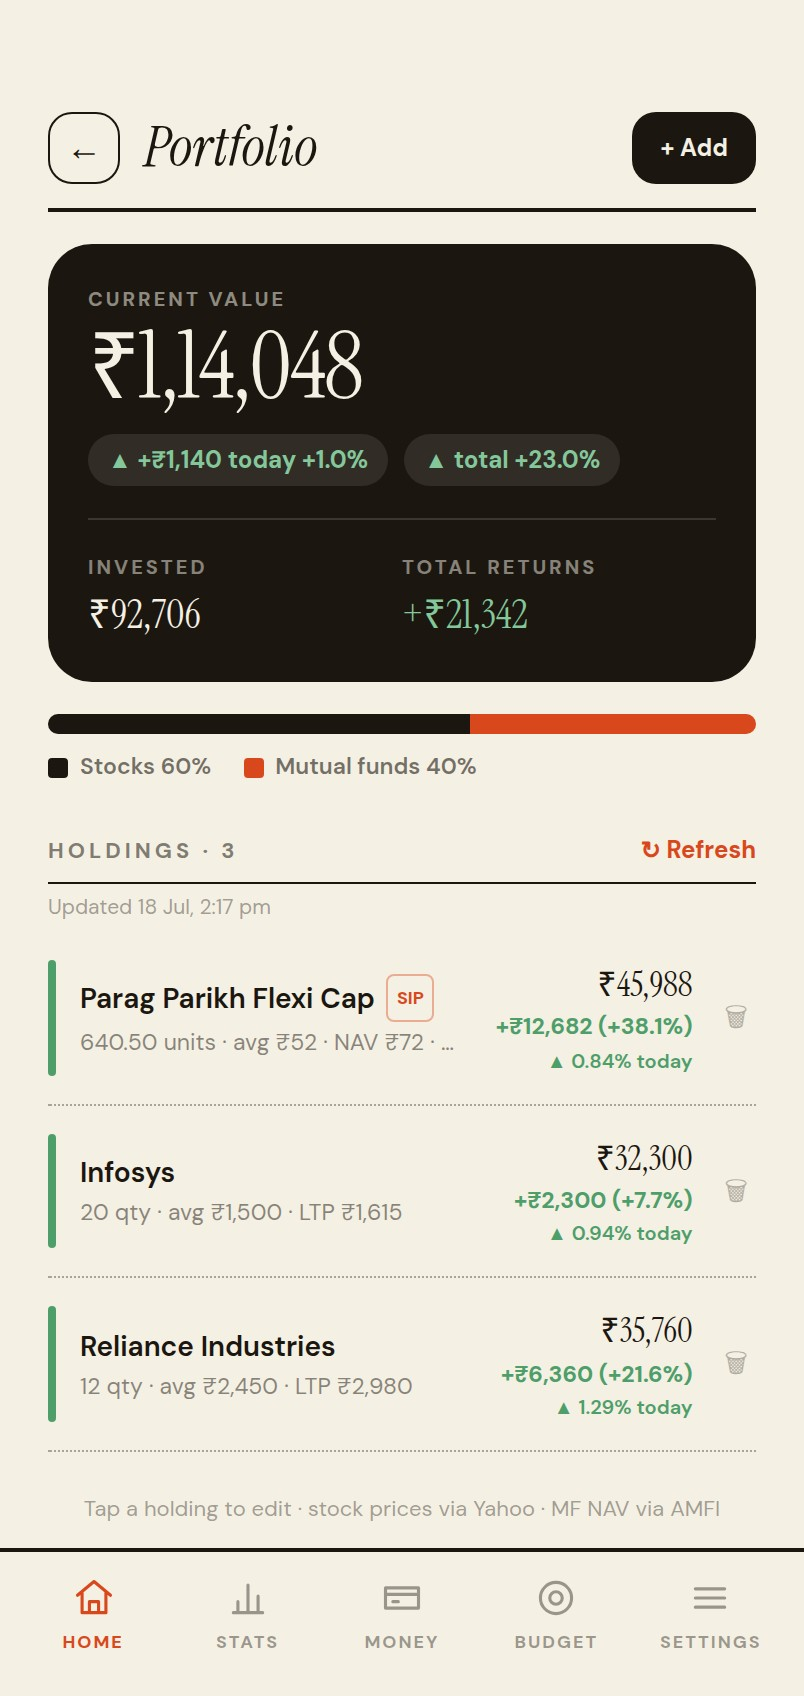
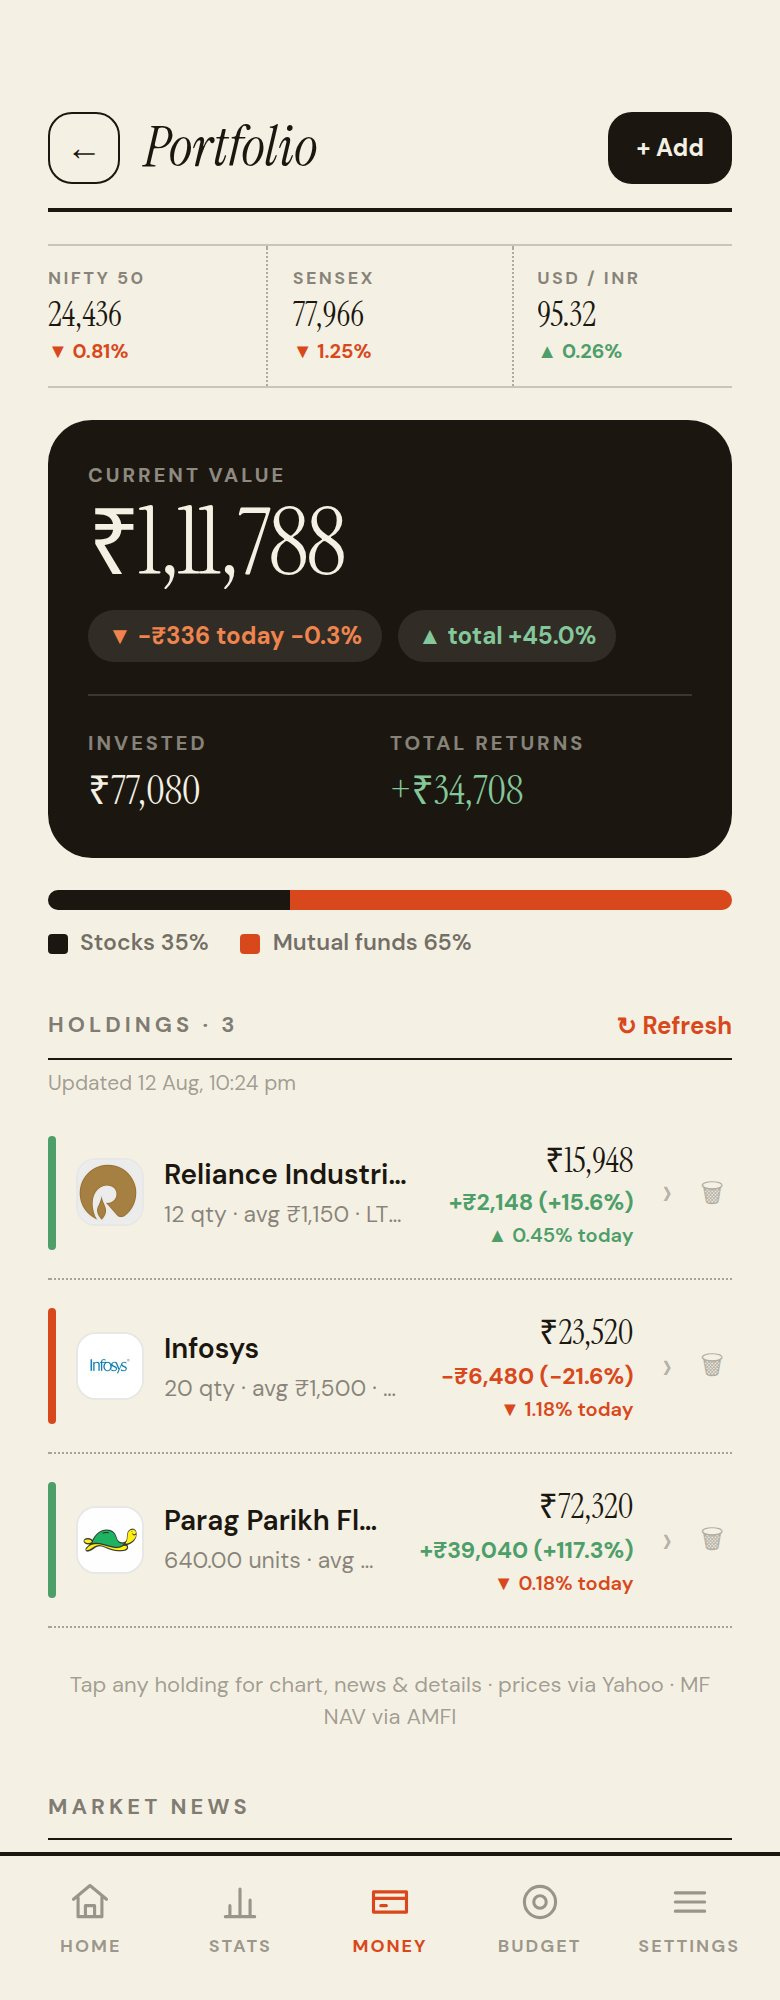
v1.3.1 — net-worth history reconstruction, 2-col detail, tour slide
- Net worth trend reconstructs history from holdings × past prices so the
  1M/6M/1Y/5Y/ALL range pills actually change the view (fixes 'nothing happens')
- Holding detail: paired two-column stat sections (price/fundamentals,
  financials/analyst) + ABOUT summary clamped behind View more
- Portfolio rows show a › chevron so the detail screen is discoverable
- Welcome tour: added a 'Deep-dive any holding' slide; refreshed the Portfolio
  screenshot (logos, market pulse, chevrons)
- Docs (CLAUDE.md, DESIGN-CONTEXT.md) updated

diff --git a/src/pages/NetWorth.jsx b/src/pages/NetWorth.jsx
@@ -4,8 +4,15 @@ import { useApp } from '../context/AppContext'
 import Modal, { ConfirmModal } from '../components/ui/Modal'
 import { formatCurrency } from '../utils/formatters'
 import { computeNetWorth, assetValue, ASSET_TYPES, typeMeta, METALS, assetMetal, isMetalAsset, finenessOf } from '../utils/networth'
+import { priceKey, fetchStockChart, fetchMfSeries } from '../services/marketData'
 
 const todayISO = () => new Date().toISOString().split('T')[0]
+
+// Latest value in an oldest-first [{t, close}] series at or before time `t`.
+function priceOnOrBefore(series, t) {
+  for (let i = series.length - 1; i >= 0; i--) if (series[i].t <= t) return series[i].close
+  return null
+}
 
 const INK = '#1B1710'
 const GREEN = '#4E9E6A'
@@ -28,6 +35,64 @@ export default function NetWorth({ onOpenPortfolio, onOpenUdhaar }) {
   const [del, setDel] = useState(null)
 
   const nw = useMemo(() => computeNetWorth({ holdings, prices, assets, udhaar, metalRates }), [holdings, prices, assets, udhaar, metalRates])
+
+  // Reconstruct a monthly net-worth history so the trend spans real time and the range
+  // pills actually change the view (like Groww). Investments are valued at PAST prices
+  // from the history we already fetch; non-investment worth (assets, udhaar) is held at
+  // its current value as a baseline. Only kicks in when real daily snapshots are too few
+  // to span a meaningful range; otherwise the true snapshots are used as-is.
+  const [histSeries, setHistSeries] = useState(null)
+  useEffect(() => {
+    let cancelled = false
+    const spanDays = netWorthSnaps.length >= 2
+      ? (new Date(netWorthSnaps[netWorthSnaps.length - 1].date) - new Date(netWorthSnaps[0].date)) / 86400000
+      : 0
+    if (!holdings.length || spanDays >= 60) { setHistSeries(null); return }
+    ;(async () => {
+      try {
+        let invNow = 0
+        holdings.forEach(h => { const p = prices[priceKey(h)]; if (p) invNow += Number(h.qty) * p.price })
+        const baseline = nw.total - invNow   // assets + udhaar, held constant historically
+        const hist = await Promise.all(holdings.map(async h => {
+          try {
+            const r = h.kind === 'mf' ? await fetchMfSeries(h.schemeCode) : await fetchStockChart(h.symbol, '5Y')
+            return { h, series: r.series || [] }
+          } catch { return { h, series: [] } }
+        }))
+        if (cancelled) return
+        const withHist = hist.filter(x => x.series.length)
+        if (!withHist.length) { setHistSeries(null); return }
+        const earliest = Math.min(...withHist.map(x => x.series[0].t))
+        const now = new Date()
+        const points = []
+        let d = new Date(now.getFullYear(), now.getMonth(), 1)
+        for (let i = 0; i < 60; i++) {
+          const monthEnd = new Date(d.getFullYear(), d.getMonth() + 1, 0)
+          const t = monthEnd.getTime()
+          if (t <= Date.now() && t >= earliest) {
+            let inv = 0
+            withHist.forEach(({ h, series }) => {
+              const price = priceOnOrBefore(series, t)
+              if (price != null) inv += Number(h.qty) * price
+            })
+            points.push({ date: monthEnd.toISOString().split('T')[0], total: Math.round(inv + baseline) })
+          }
+          if (t < earliest) break
+          d = new Date(d.getFullYear(), d.getMonth() - 1, 1)
+        }
+        // merge reconstructed months with real snapshots (snapshots win on shared dates)
+        const byDate = new Map()
+        points.forEach(p => byDate.set(p.date, p))
+        netWorthSnaps.forEach(s => byDate.set(s.date, { date: s.date, total: s.total }))
+        const merged = [...byDate.values()].sort((a, b) => a.date.localeCompare(b.date))
+        if (!cancelled) setHistSeries(merged.length >= 2 ? merged : null)
+      } catch { if (!cancelled) setHistSeries(null) }
+    })()
+    return () => { cancelled = true }
+  }, [holdings, prices, assets, udhaar, metalRates, netWorthSnaps, nw.total])
+
+  const trendData = histSeries && histSeries.length >= 2 ? histSeries : netWorthSnaps
+  const trendReconstructed = !!(histSeries && histSeries.length >= 2)
 
   const empty = assets.length === 0 && holdings.length === 0 && udhaar.filter(u => u.status === 'open').length === 0
 
@@ -54,8 +119,8 @@ export default function NetWorth({ onOpenPortfolio, onOpenUdhaar }) {
             </div>
           </div>
 
-          {netWorthSnaps.length >= 2 ? (
-            <TrendChart snaps={netWorthSnaps} />
+          {trendData.length >= 2 ? (
+            <TrendChart snaps={trendData} reconstructed={trendReconstructed} />
           ) : (
             <div className="px-5 mt-2 flex items-center gap-2">
               <span className="text-sm">📈</span>
@@ -150,8 +215,8 @@ const RANGES = [
 ]
 
 // Stock-app style trend: range pills (1M/6M/1Y/5Y/ALL) + area chart, dark themed.
-function TrendChart({ snaps }) {
-  const [range, setRange] = useState('ALL')
+function TrendChart({ snaps, reconstructed }) {
+  const [range, setRange] = useState('1Y')
 
   const { data, rangeChange, label } = useMemo(() => {
     const r = RANGES.find(x => x.id === range) || RANGES[4]
@@ -229,6 +294,12 @@ function TrendChart({ snaps }) {
           )
         })}
       </div>
+
+      {reconstructed && (
+        <p className="px-5 mt-2 text-[10px] leading-snug" style={{ color: 'rgba(245,240,228,.4)' }}>
+          History before daily tracking is estimated from your current holdings at past market prices.
+        </p>
+      )}
     </div>
   )
 }

diff --git a/src/components/portfolio/HoldingDetail.jsx b/src/components/portfolio/HoldingDetail.jsx
@@ -312,34 +312,33 @@ export default function HoldingDetail({ holding: h, onBack, onEdit, onDelete }) 
           </>
         )}
 
-        {/* price stats / fund info */}
-        <KVSection title={isMf ? 'FUND INFO' : 'PRICE STATS'} rows={marketStats} />
+        {/* MF: fund info stays as full-width rows */}
+        {isMf && <KVSection title="FUND INFO" rows={marketStats} />}
+        {isMf && err && !stats && <p className="text-[12px] text-ink/45 py-2">Couldn't load live data — showing what's saved on your device.</p>}
 
-        {/* stock: fundamentals, financials, analysts, about */}
+        {/* Stock: paired two-column stat sections */}
         {!isMf && (
           <>
+            <div className="grid grid-cols-2 gap-x-5 items-start">
+              <ColSection title="PRICE STATS" rows={marketStats} />
+              <ColSection title="FUNDAMENTALS" rows={fundamentals} />
+            </div>
+            <div className="grid grid-cols-2 gap-x-5 items-start">
+              <ColSection title="FINANCIALS" rows={financials} />
+              <ColSection title="ANALYST VIEW" rows={analysts} />
+            </div>
             {fundState === 'loading' && !fund && (
-              <p className="text-[12px] text-ink/45 pt-6">Loading fundamentals…</p>
+              <p className="text-[12px] text-ink/45 pt-5">Loading fundamentals…</p>
             )}
             {fundState === 'error' && !fund && (
-              <p className="text-[12px] text-ink/45 pt-6 leading-snug">
+              <p className="text-[12px] text-ink/45 pt-5 leading-snug">
                 Fundamentals (P/E, financials, ownership) load in the installed app — Yahoo blocks them in the browser.
               </p>
             )}
-            {fund && (
-              <>
-                <KVSection title="FUNDAMENTALS" rows={fundamentals} />
-                <KVSection title="FINANCIALS" rows={financials} />
-                <KVSection title="ANALYST VIEW" rows={analysts} />
-                <KVSection title="ABOUT" rows={about} />
-                {fund.summary && (
-                  <p className="text-[12.5px] text-ink/65 leading-relaxed pt-3">{fund.summary}</p>
-                )}
-              </>
-            )}
+            {about && <KVSection title="ABOUT" rows={about} />}
+            {fund?.summary && <AboutSummary text={fund.summary} />}
           </>
         )}
-        {isMf && err && !stats && <p className="text-[12px] text-ink/45 py-2">Couldn't load live data — showing what's saved on your device.</p>}
 
         {/* news for this holding */}
         <NewsList query={newsQuery(h)} title="NEWS" count={5} />
@@ -372,6 +371,39 @@ function KVSection({ title, rows }) {
         ))}
       </div>
     </>
+  )
+}
+
+// Narrow-column stat list (label stacked above value) — pairs two sections side by side.
+function ColSection({ title, rows }) {
+  const filled = (rows || []).filter(([, v]) => v != null && v !== '')
+  if (!filled.length) return null
+  return (
+    <div className="mt-7">
+      <div className="text-[10.5px] font-bold tracking-[1.5px] text-ink/55 rule-ink pb-2 mb-1">{title}</div>
+      {filled.map(([k, v]) => (
+        <div key={k} className="py-2 rule-dot">
+          <div className="text-[10px] tracking-[0.5px] text-ink/45">{k}</div>
+          <div className="text-[13px] font-semibold leading-snug break-words">{v}</div>
+        </div>
+      ))}
+    </div>
+  )
+}
+
+// Business summary, clamped to a few lines with a View more / less toggle.
+function AboutSummary({ text }) {
+  const [open, setOpen] = useState(false)
+  const long = text.length > 200
+  return (
+    <div className="pt-3">
+      <p className={`text-[12.5px] text-ink/65 leading-relaxed ${!open && long ? 'line-clamp-4' : ''}`}>{text}</p>
+      {long && (
+        <button onClick={() => setOpen(o => !o)} className="text-[12px] font-bold text-brand mt-1.5 active:opacity-60">
+          {open ? 'View less' : 'View more'}
+        </button>
+      )}
+    </div>
   )
 }
 

diff --git a/src/components/onboarding/WelcomeTour.jsx b/src/components/onboarding/WelcomeTour.jsx
@@ -1,6 +1,7 @@
 import { useState } from 'react'
 import homeImg from '../../assets/tour/home.jpg'
 import portfolioImg from '../../assets/tour/portfolio.jpg'
+import detailImg from '../../assets/tour/detail.jpg'
 import moneyImg from '../../assets/tour/money.jpg'
 import breakdownImg from '../../assets/tour/breakdown.jpg'
 import trendsImg from '../../assets/tour/trends.jpg'
@@ -11,6 +12,7 @@ import udhaarImg from '../../assets/tour/udhaar.jpg'
 const SLIDES = [
   { img: homeImg,      accent: '#D9481C', title: 'Everything at a glance',  body: "Your month's spend, budget, portfolio and dues — all on one home screen." },
   { img: portfolioImg, accent: '#4E9E6A', title: 'Track your investments',  body: 'Stocks, mutual funds and SIPs with live prices, returns and allocation.' },
+  { img: detailImg,    accent: '#B5761F', title: 'Deep-dive any holding',   body: 'Tap a stock or fund for its live chart, fundamentals, returns and latest news.' },
   { img: moneyImg,     accent: '#6C5FB0', title: 'Your whole net worth',    body: 'Metals, FDs, loans and investments in one number — with a trend that grows.' },
   { img: breakdownImg, accent: '#C9972E', title: 'Where your money goes',   body: 'A clear category breakdown for every month.' },
   { img: trendsImg,    accent: '#3E7CA6', title: 'Spot the trends',         body: 'Watch each category move, month over month.' },

diff --git a/src/pages/Portfolio.jsx b/src/pages/Portfolio.jsx
@@ -186,13 +186,14 @@ export default function Portfolio({ onBack }) {
                       </div>
                     )}
                   </div>
+                  <span aria-hidden className="self-center text-ink/30 text-xl leading-none pl-1 -mr-0.5">›</span>
                 </button>
                 <button onClick={() => setDel(h)} aria-label="Remove" className="text-[13px] opacity-30 active:opacity-70 self-center p-1">🗑</button>
               </div>
             )
           })}
           <p className="text-center text-[11px] text-ink/40 pt-5">
-            Tap a holding for full details · stock prices via Yahoo · MF NAV via AMFI
+            Tap any holding for chart, news &amp; details · prices via Yahoo · MF NAV via AMFI
           </p>
         </>
       )}

diff --git a/DESIGN-CONTEXT.md b/DESIGN-CONTEXT.md
@@ -57,7 +57,7 @@ Active-month header; monthly budget card (spent vs budget, colored progress, rem
 
 The hub that ties everything together.
 - **Ink hero:** big **net worth** number (rust if negative), You own / You owe split.
-- **Trend:** once ≥2 daily snapshots exist, a **stock-app-style area chart** with range pills **1M · 6M · 1Y · 5Y · ALL** and a range-specific ▲/▼ return. Before that, a compact "trend builds as days pass" note (no empty chart).
+- **Trend:** a **stock-app-style area chart** with range pills **1M · 6M · 1Y · 5Y · ALL** and a range-specific ▲/▼ return. When real daily snapshots span < 60 days, the history is **reconstructed** so the ranges actually differ — current holdings valued at past prices (from the price/NAV history we fetch), with assets/udhaar held as a constant baseline; recent days still use the true snapshots, and a caption notes the reconstruction. Before any data exists, a compact "trend builds as days pass" note (no empty chart).
 - **Breakdown rows:** Investments (live portfolio value → opens Portfolio), Udhaar (net, → ledger), plus manual **assets**.
 - **+ Add asset** modal — types: **Metal** (Gold/Silver/Platinum selector + weight + purity, live-valued), **Fixed deposit** (principal + rate + date → auto-compounds), **Loan/due** (outstanding + rate + EMI + date → auto-amortizes), **Other** (static value). Dynamic assets show a **LIVE** badge and a "value today" preview.
 
@@ -65,9 +65,10 @@ The hub that ties everything together.
 
 Ink hero (current value, today/total P&L chips, invested, total returns); Stocks-vs-MF allocation bar; holdings list with per-row P&L accent, SIP badge, LTP/NAV, live prices (refresh button + "updated" label). Add/Edit holding modals: stock/MF search, quantity + avg buy, optional **monthly SIP** (auto-adds units each month at that month's NAV); re-adding an owned holding **averages** in (weighted avg buy + summed qty).
 
-**Holding detail (tap any holding — full-screen, Groww/Kite style):** ink chart card with big price/NAV, today's ▲/▼, and an area chart with range pills **1M · 6M · 1Y · 5Y · MAX**; **Your holding** grid (units/qty, avg cost, invested, current value, total & today's returns). For **stocks**: PRICE STATS (prev close, day range, 52-week range, volume, exchange) + FUNDAMENTALS (market cap, P/E, forward P/E, EPS, book value, P/B, dividend yield, beta) + FINANCIALS (revenue, profit margin, ROE, debt/equity, current ratio, revenue growth) + ANALYST VIEW (rating + target) + ABOUT (sector, industry, employees, business summary). For **funds**: RETURNS (1M/6M/1Y/3Y/5Y + since-inception, annualized past ~1y, computed from NAV history) + FUND INFO (NAV date, category, fund house, type). Stock fundamentals come from Yahoo `quoteSummary` (needs a cookie+crumb handshake); fetched data is cached **once per calendar day per holding** so reopening is instant. Degrades gracefully with an honest note when unavailable.
+**Holding detail (tap any holding — full-screen, Groww/Kite style):** ink chart card with big price/NAV, today's ▲/▼, and an area chart with range pills **1M · 6M · 1Y · 5Y · MAX**; **Your holding** grid (units/qty, avg cost, invested, current value, total & today's returns). For **stocks**, stat sections are paired into two columns: **PRICE STATS ↔ FUNDAMENTALS** and **FINANCIALS ↔ ANALYST VIEW** (each stat is label-above-value so long ranges fit the narrow columns), then **ABOUT** as full-width rows (sector, industry, employees) with the business summary clamped to a few lines behind a **View more** toggle. For **funds**: RETURNS (1M/6M/1Y/3Y/5Y + since-inception, annualized past ~1y, computed from NAV history) + FUND INFO (NAV date, category, fund house, type). Stock fundamentals come from Yahoo `quoteSummary` (needs a cookie+crumb handshake); fetched data is cached **once per calendar day per holding** so reopening is instant. Degrades gracefully with an honest note when unavailable.
 
 **Portfolio extras:**
+- Each holding row carries a **›** chevron so the tap-to-open-detail affordance is discoverable.
 - **Market pulse strip** (top of Portfolio) — NIFTY 50 / SENSEX / USD-INR with ▲/▼ %, editorial stat-row style, for at-a-glance market context.
 - **Brand logos** on every holding (list rows + detail header) via logo.dev. Stock domains resolve dynamically (Yahoo `website` / a keyless name→domain lookup); fund houses use a small fixed AMC→domain map; unresolved → a tinted monogram. The resolved domain is **persisted onto the holding (`logoDomain`)** so it's looked up only once and cleaned up when the holding is deleted.
 - **News** — per-holding **NEWS** on the detail screen and a general **MARKET NEWS** section on Portfolio, from Google News RSS (India). News is **never stored** — fetched for display only.
@@ -84,7 +85,7 @@ Stats grid (this month / all time / entries / categories); **Money** links (Net 
 
 ## Onboarding & security
 
-- **Welcome tour** on first launch: 6 full-screen slides, each a real screenshot of the app filled with demo data, then a choice: **"Explore with sample data"** (loads a tagged demo dataset into the real app) or **"Start fresh"**. Replayable from Settings.
+- **Welcome tour** on first launch: 7 full-screen slides, each a real screenshot of the app filled with demo data (Home, Portfolio, **Holding detail**, Money, Breakdown, Trends, Udhaar), then a choice: **"Explore with sample data"** (loads a tagged demo dataset into the real app) or **"Start fresh"**. Replayable from Settings.
 - **App lock:** 4-digit PIN + optional **fingerprint** (biometric) unlock; a first-launch prompt offers to set it up.
 - **In-app updates:** the app is sideloaded (not on Play Store), so on open it checks its GitHub **latest release** at most once per calendar day; when a newer version exists it shows a dismissible ink **update banner** ("Finances vX.Y.Z" + Download). Settings shows the installed **version footer**. Releasing = bump `version` in package.json, build the APK, and publish a GitHub release tagged `v<version>` with the APK attached.
 
@@ -108,7 +109,8 @@ Stats grid (this month / all time / entries / categories); **Money** links (Net 
 
 // holding (stock / mutual fund)
 { id, kind:'stock'|'mf', symbol?|schemeCode?, name, qty, avgBuy,
-  sip?:{ amount, day, lastRun:'YYYY-MM' }, createdAt }
+  sip?:{ amount, day, lastRun:'YYYY-MM' }, logoDomain?, createdAt }
+//   logoDomain: resolved brand-logo domain, saved once ('' = resolved, no logo)
 
 // asset (net-worth item)
 { id, type:'metal'|'fd'|'loan'|'other', name, value?,

diff --git a/CLAUDE.md b/CLAUDE.md
@@ -49,6 +49,8 @@ Migrations are **additive only** — add new `createObjectStore` guarded by `!co
 ### Market data (`src/services/marketData.js`)
 All HTTP goes through `CapacitorHttp` to bypass CORS. **Only mutual-fund NAV (mfapi.in/AMFI) works in a browser; stock and metal prices (Yahoo Finance) are blocked by CORS and only work in the installed APK.** Fetched prices are cached in the `settings` store (`priceCache`, `metalRates`, `pricesUpdatedAt`) so the UI never blank-flashes and works offline between refreshes. Metal rates come from Yahoo futures (`GC=F`/`SI=F`/`PL=F`) × USD-INR, converted to ₹/gram — international spot, not Indian retail.
 
+Beyond prices, `marketData.js` also serves the holding-detail and Portfolio extras: `fetchStockChart`/`fetchMfSeries` (range charts), `fetchStockFundamentals` (Yahoo `quoteSummary` via a cookie+crumb handshake), `fetchMarketPulse` (NIFTY/SENSEX/USD-INR), `fetchDomainByName` (Clearbit name→domain for logos, rendered via logo.dev — see `src/utils/brands.js`), and `fetchNews` (Google News RSS, India). These calls are memoised by `cachedDaily` (in-memory, once per calendar day). For **browser preview**, a dev-only Vite proxy in `vite.config.js` (`/yfin`, `/yahoo-fundamentals`, `/gnews`) routes the CORS-blocked endpoints server-side; native uses `CapacitorHttp` direct. News is display-only (never persisted); a holding's resolved logo domain **is** persisted onto its record (`logoDomain`).
+
 ### Net worth (`src/utils/networth.js`)
 `computeNetWorth({holdings, prices, assets, udhaar, metalRates})` is the single source of truth. Assets are dynamic-valued: metals by live rate × grams × fineness, FDs by quarterly compounding, loans by amortization — see `assetValue`. A daily net-worth snapshot is written to `networth_snaps` by an effect in `AppContext` (one row per calendar day, keyed by date); the Money tab's trend chart reads these. Snapshotting is skipped while demo data is loaded so it can't pollute real history.
 
